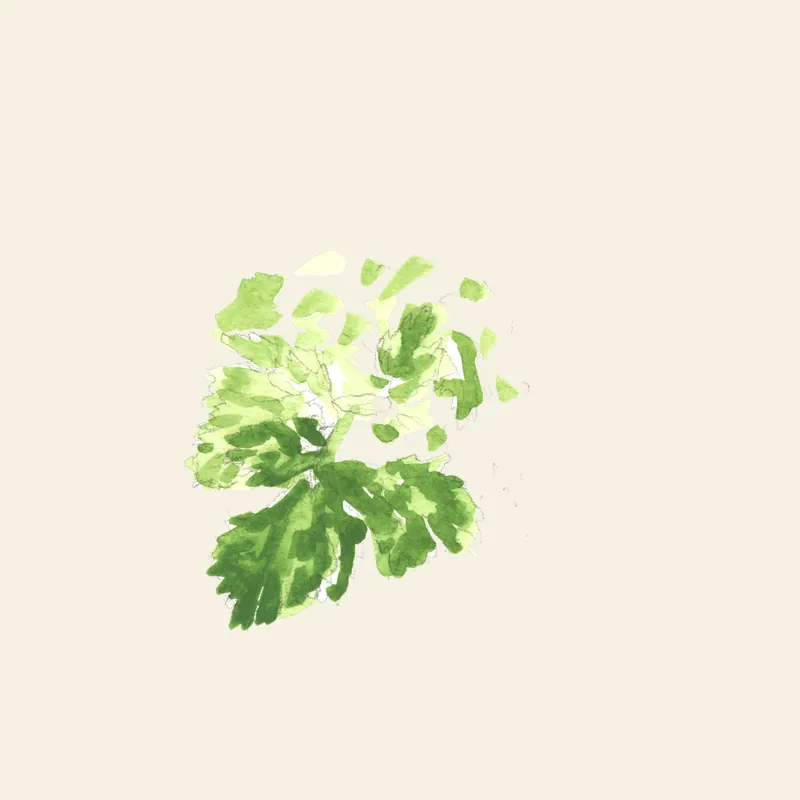
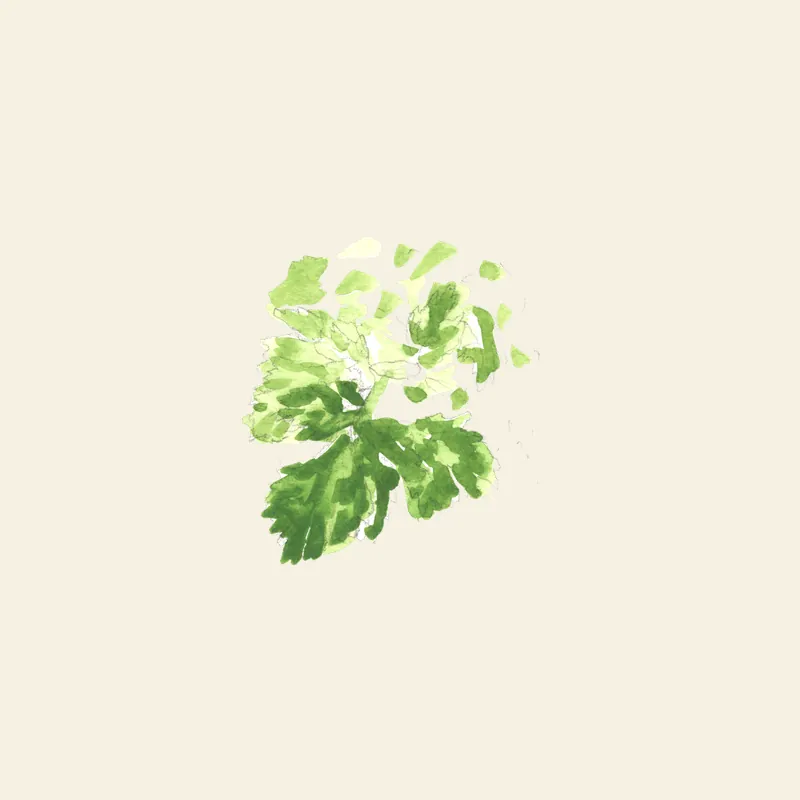
feat(team_100): diversify hero series (7 distinct masters + 2 combos, text-free basket)
inventory now uses basket.png (no wordmark); calc/planner/tend-bridge/field-log
differentiated via distinct elements + combos + radish accents. Full series regenerated.

Changed region(s): [[0.2188, 0.2812, 0.6562, 0.8125]]

diff --git a/_COMMUNICATION/TEAM_100/NIMROD_BIO_VISUAL_SYSTEM_CHATGPT/tools/compose_brand_assets.py b/_COMMUNICATION/TEAM_100/NIMROD_BIO_VISUAL_SYSTEM_CHATGPT/tools/compose_brand_assets.py
@@ -42,21 +42,27 @@ def save(c, name, webp_q=80):
     rgb.save(os.path.join(OUT, name + ".preview.jpg"), quality=86)
 
 m = lambda f: os.path.join(WC, f)
-basket = os.path.join(LG, "logo_with_basket.png")
+basket = os.path.join(LG, "logo_with_basket.png")   # basket + wordmark (OG only)
+basket_mark = os.path.join(LG, "basket.png")          # basket alone, NO text (heroes/favicon)
 
-# ---- 8 SFA module heroes (800x800) : (master, h_frac, cx, cy, flip) ----
+# ---- 8 SFA module heroes (800x800) : each = list of layers (master, h_frac, cx, cy, flip) ----
+# Maximize distinctiveness: all 7 distinct masters + 2 combos. radishes = red pop.
 HEROES = {
-    "crop-book":   (m("bunch.png"),     0.80, 0.42, 0.58, False),
-    "market":      (m("radishes.png"),  0.74, 0.40, 0.60, False),
-    "calc":        (m("parsley_1.png"), 0.58, 0.46, 0.55, False),
-    "planner":     (m("dill.png"),      0.72, 0.56, 0.55, True),
-    "clients":     (m("lettuce.png"),   0.70, 0.44, 0.58, False),
-    "inventory":   (m("parsley_2.png"), 0.72, 0.44, 0.57, False),
-    "tend-bridge": (m("dill.png"),      0.60, 0.50, 0.55, False),
-    "field-log":   (m("bunch.png"),     0.66, 0.52, 0.58, True),
+    "crop-book":   [(m("bunch.png"),     0.80, 0.44, 0.58, False)],                 # leafy clump
+    "market":      [(m("radishes.png"),  0.74, 0.42, 0.60, False)],                 # red pop
+    "clients":     [(m("lettuce.png"),   0.74, 0.44, 0.57, False)],                 # lush head
+    "inventory":   [(basket_mark,        0.70, 0.50, 0.54, False)],                 # woven basket (object, no text)
+    "calc":        [(m("parsley_1.png"), 0.50, 0.50, 0.50, False)],                 # single flat sprig, airy
+    "planner":     [(m("dill.png"),      0.62, 0.50, 0.52, True)],                  # feathery, wide
+    "tend-bridge": [(m("parsley_2.png"), 0.46, 0.30, 0.46, False),                  # combo = "bridge"
+                    (m("radishes.png"),  0.38, 0.70, 0.62, True)],
+    "field-log":   [(m("bunch.png"),     0.55, 0.34, 0.56, True),                   # combo = mixed log
+                    (m("radishes.png"),  0.34, 0.68, 0.66, False)],
 }
-for slug,(asset,hf,cx,cy,fl) in HEROES.items():
-    c = canvas(800, 800); place(c, asset, hf, cx, cy, fl)
+for slug, layers in HEROES.items():
+    c = canvas(800, 800)
+    for asset, hf, cx, cy, fl in layers:
+        place(c, asset, hf, cx, cy, fl)
     save(c, os.path.join("heroes", slug))
 
 # ---- og-default 1200x630 : radishes lower-left, logo fully inside upper-right ----
@@ -66,10 +72,10 @@ lg = load(basket); th = int(630 * 0.34); lg = lg.resize((int(lg.width*th/lg.heig
 c.alpha_composite(lg, (1200 - lg.width - 60, int(630*0.5 - lg.height/2)))
 save(c, "og-default", 80)
 
-# ---- hub-hero 1600x900 : basket centre-left + radishes, quiet right ----
+# ---- hub-hero 1600x900 : basket centre-left + dill, quiet right (no text) ----
 c = canvas(1600, 900)
-place(c, basket, 0.62, 0.30, 0.52)
-place(c, m("dill.png"), 0.55, 0.62, 0.40, True)
+place(c, basket_mark, 0.66, 0.28, 0.54)
+place(c, m("dill.png"), 0.50, 0.60, 0.40, True)
 save(c, "hub-hero", 80)
 
 # ---- contact 1600x900 : lettuce + radishes cluster left, quiet right ----
@@ -79,7 +85,7 @@ place(c, m("radishes.png"), 0.50, 0.46, 0.66)
 save(c, "contact", 80)
 
 # ---- favicon set from basket mark ----
-fav = canvas(512, 512); place(fav, basket, 0.78, 0.5, 0.5)
+fav = canvas(512, 512); place(fav, basket_mark, 0.80, 0.5, 0.5)
 fav.convert("RGB").save(os.path.join(OUT, "apple-touch-icon.png"))
 for sz in (180, 32):
     fav.resize((sz, sz), Image.LANCZOS).convert("RGB").save(os.path.join(OUT, f"favicon-{sz}.png"))
